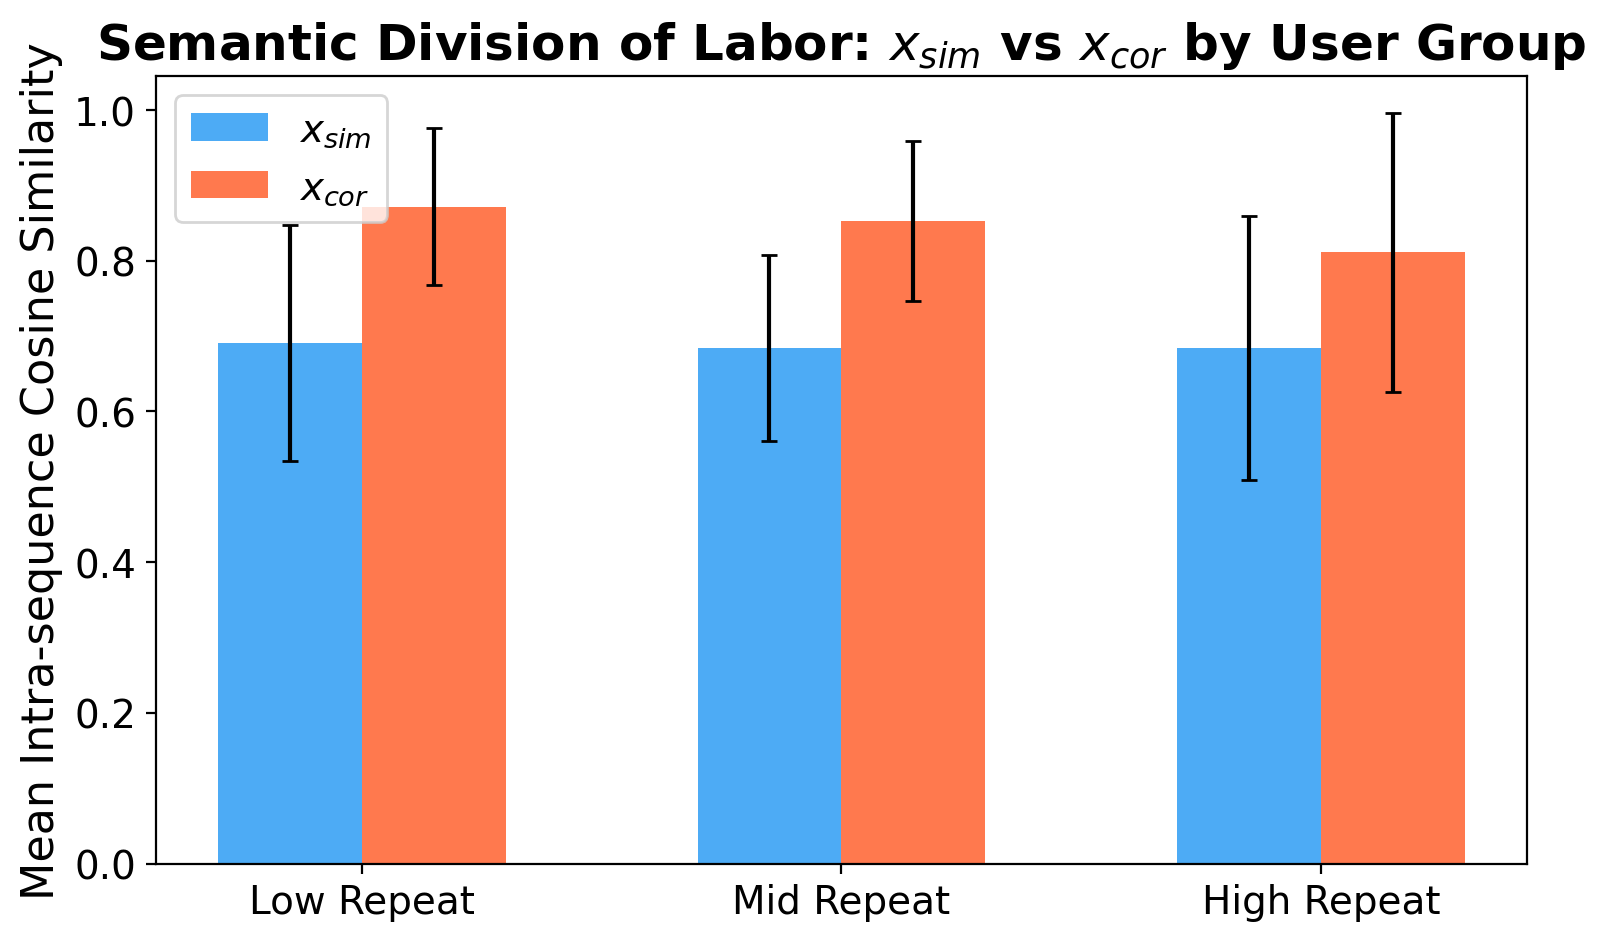
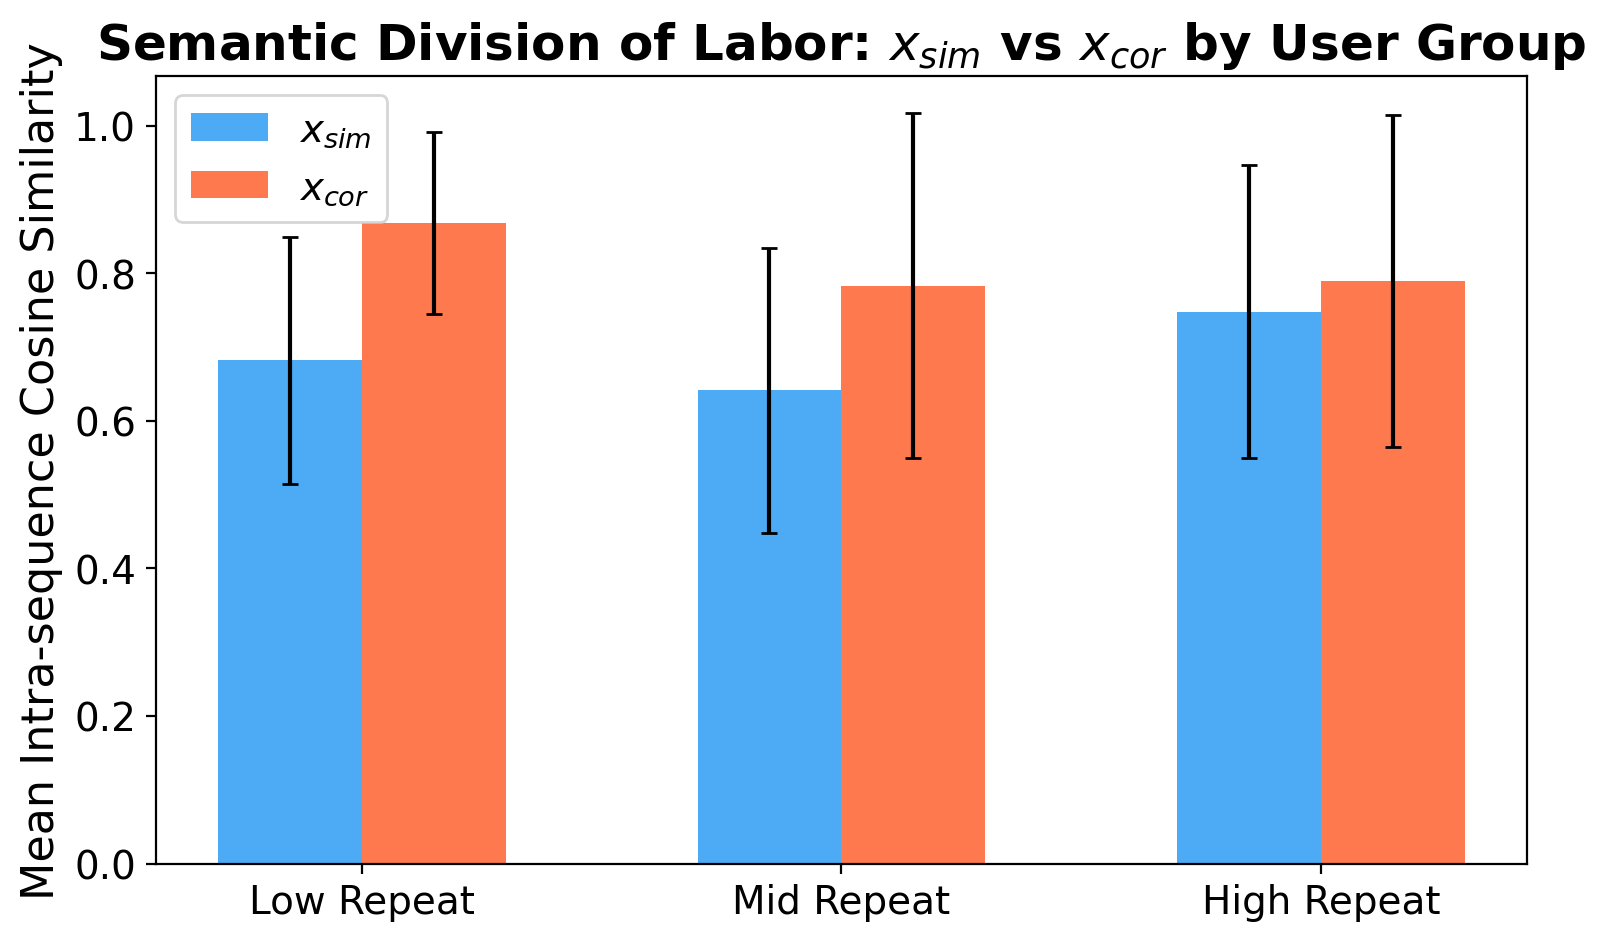
Checkpoint from VS Code for cloud agent session

diff --git a/experiments/RQ2/analyze_rq2.py b/experiments/RQ2/analyze_rq2.py
@@ -231,13 +231,38 @@ def analyze_projection_weights(model, output_dir):
 # ============================================================
 # 2. 使用者分群
 # ============================================================
+def extract_unique_user_sequences(train_set):
+    """
+    train_set 為增強訓練集（每位使用者的所有前綴子序列）。
+    每位使用者的條目以遞增序列長度排列，長度重置為 1 代表新使用者開始。
+    回傳每位唯一使用者的完整訓練序列（最長前綴 + 目標物品 entry[2]）。
+    格式：List of (full_seq: List[int], entry)
+    """
+    user_data = []
+    last_entry = None
+    for entry in train_set:
+        seq = [x for x in list(entry[0]) if x != 0]
+        if len(seq) == 1 and last_entry is not None:
+            prefix = [x for x in list(last_entry[0]) if x != 0]
+            full_seq = prefix + [int(last_entry[2])]
+            user_data.append((full_seq, last_entry))
+        last_entry = entry
+    if last_entry is not None:
+        prefix = [x for x in list(last_entry[0]) if x != 0]
+        full_seq = prefix + [int(last_entry[2])]
+        user_data.append((full_seq, last_entry))
+    return user_data
+
+
 def compute_user_repeat_ratio(raw_data, features):
     """計算每位使用者的重複購買比例（基於 CID3 類別）"""
     train_set = raw_data['train_set']
+    user_data = extract_unique_user_sequences(train_set)
+    print(f"  唯一使用者數: {len(user_data)}")
     user_repeat_ratios = []
 
-    for entry in train_set:
-        seq = [x for x in list(entry[0]) if x != 0]
+    for full_seq, entry in user_data:
+        seq = full_seq
         if len(seq) < 2:
             user_repeat_ratios.append(0.0)
             continue
@@ -285,7 +310,7 @@ def analyze_user_clustering(model, device, adj_sim, adj_sim_dele, adj_cor, adj_c
         x_sim = x_sim.cpu()
         x_cor = x_cor.cpu()
 
-    train_set = raw_data['train_set']
+    user_data = extract_unique_user_sequences(raw_data['train_set'])
     group_names = ['Low Repeat', 'Mid Repeat', 'High Repeat']
 
     # 對每個使用者計算其歷史序列在 x_sim / x_cor 空間的平均 pairwise cosine similarity
@@ -294,7 +319,7 @@ def analyze_user_clustering(model, device, adj_sim, adj_sim_dele, adj_cor, adj_c
 
     # 取樣使用者
     np.random.seed(42)
-    n_total = len(train_set)
+    n_total = len(user_data)
     if max_users > 0 and n_total > max_users:
         sample_idx = np.random.choice(n_total, max_users, replace=False)
     else:
@@ -303,8 +328,7 @@ def analyze_user_clustering(model, device, adj_sim, adj_sim_dele, adj_cor, adj_c
     print(f"  分析 {len(sample_idx)} 位使用者...")
 
     for uid in sample_idx:
-        entry = train_set[uid]
-        seq = [x for x in list(entry[0]) if x != 0]
+        seq, entry = user_data[uid]
         if len(seq) < 3:
             continue
 
@@ -387,13 +411,19 @@ def analyze_user_clustering(model, device, adj_sim, adj_sim_dele, adj_cor, adj_c
 
     for g in range(3):
         # x_sim 分布
+        sim_mean = np.mean(sim_clustering[g])
+        cor_mean = np.mean(cor_clustering[g])
         axes[0, g].hist(sim_clustering[g], bins=50, alpha=0.7, color='#2196F3',
                         edgecolor='white', label='$x_{sim}$')
         axes[0, g].hist(cor_clustering[g], bins=50, alpha=0.7, color='#FF5722',
                         edgecolor='white', label='$x_{cor}$')
+        axes[0, g].axvline(sim_mean, color='#1565C0', linestyle='--', linewidth=1.5,
+                           label=f'$\\bar{{x}}_{{sim}}$={sim_mean:.3f}')
+        axes[0, g].axvline(cor_mean, color='#BF360C', linestyle='--', linewidth=1.5,
+                           label=f'$\\bar{{x}}_{{cor}}$={cor_mean:.3f}')
         axes[0, g].set_title(f'{group_names[g]}', fontsize=16)
         axes[0, g].set_xlabel('Intra-sequence Cosine Similarity', fontsize=11)
-        axes[0, g].legend(fontsize=13)
+        axes[0, g].legend(fontsize=11)
         axes[0, g].set_ylabel('# Users', fontsize=11)
 
         # 差值分布 (sim - cor)
